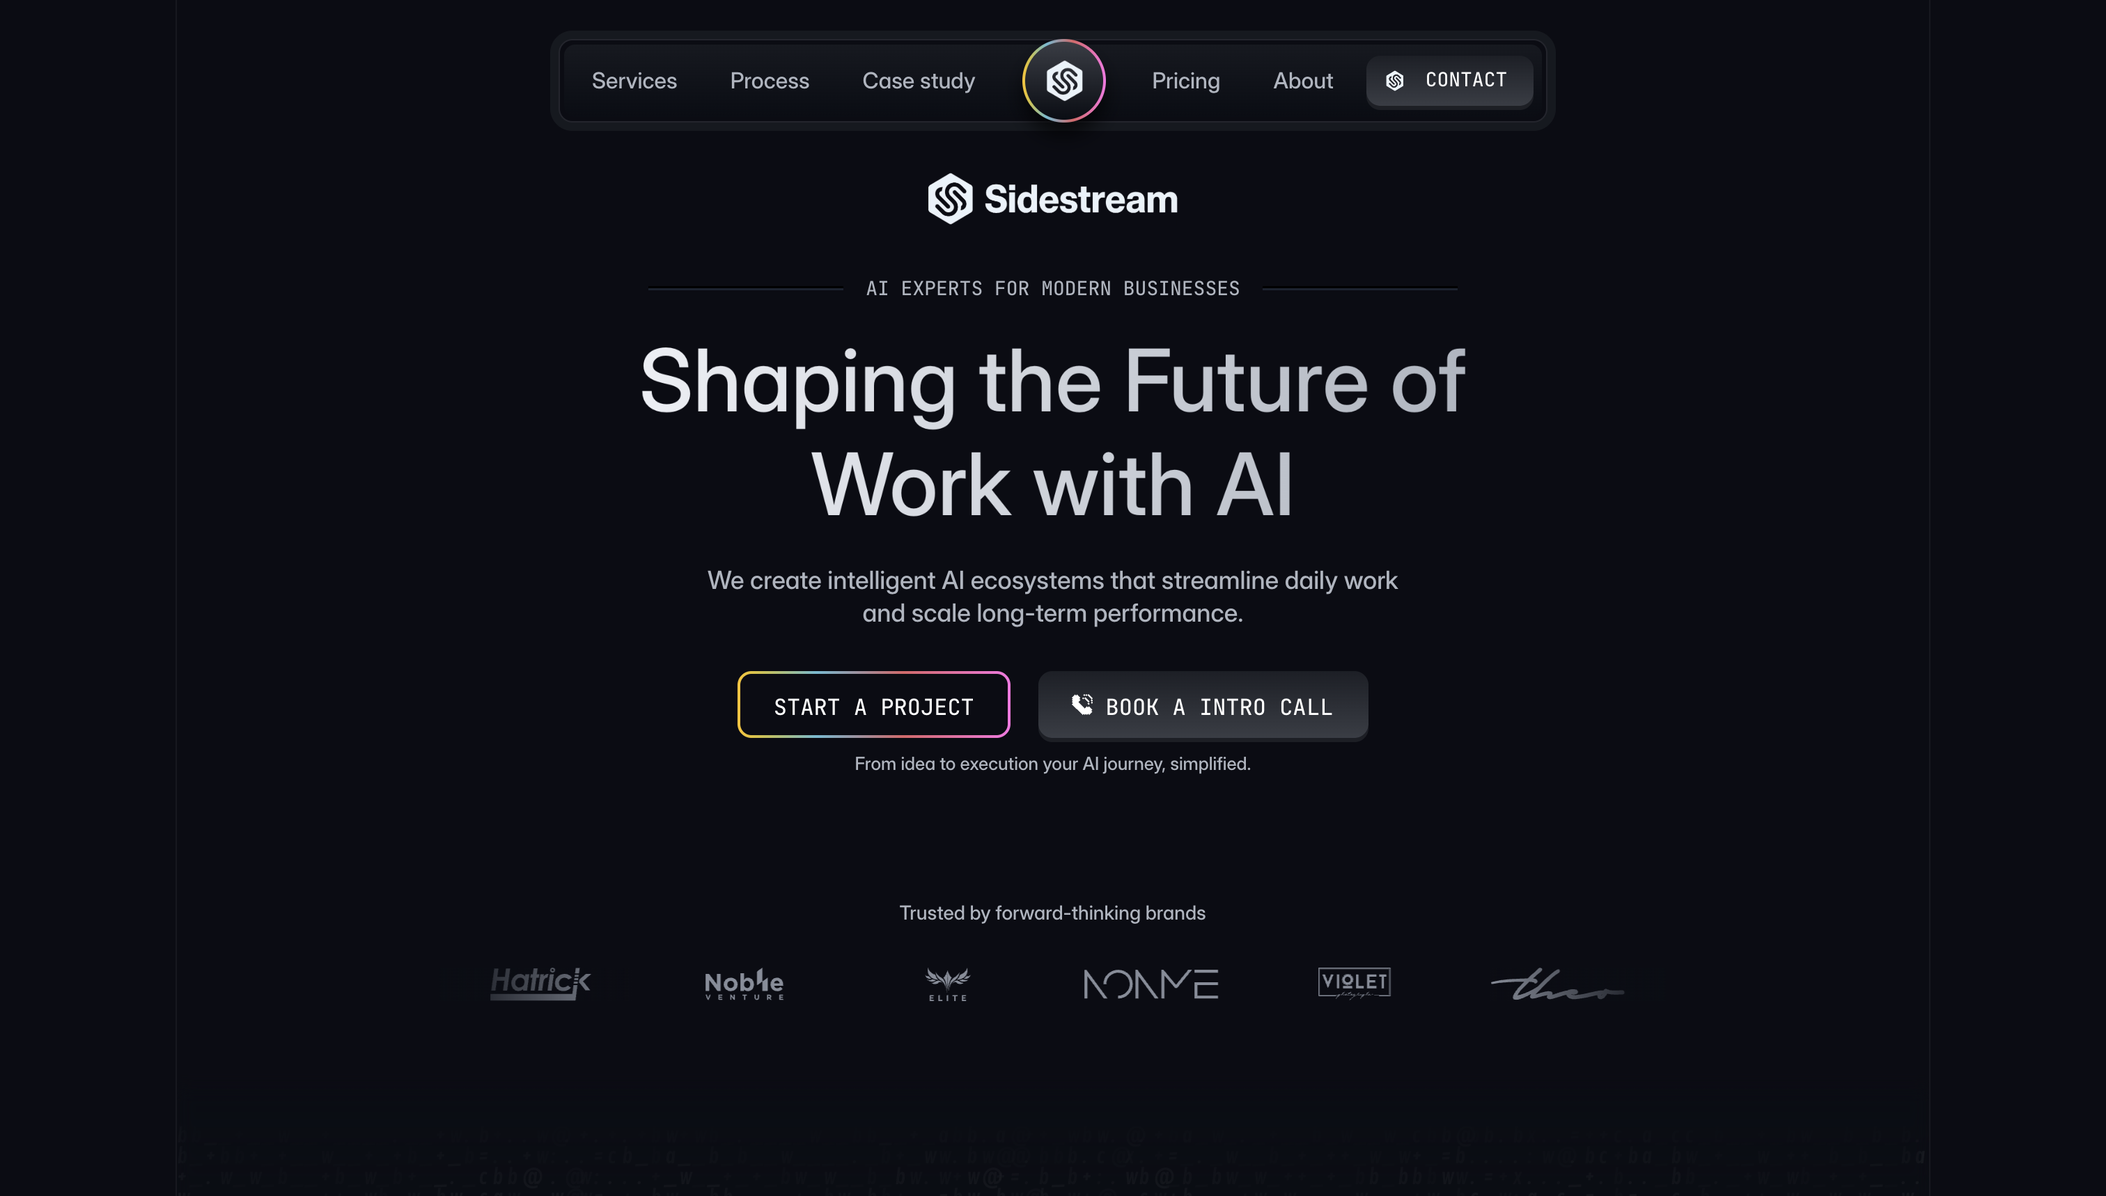
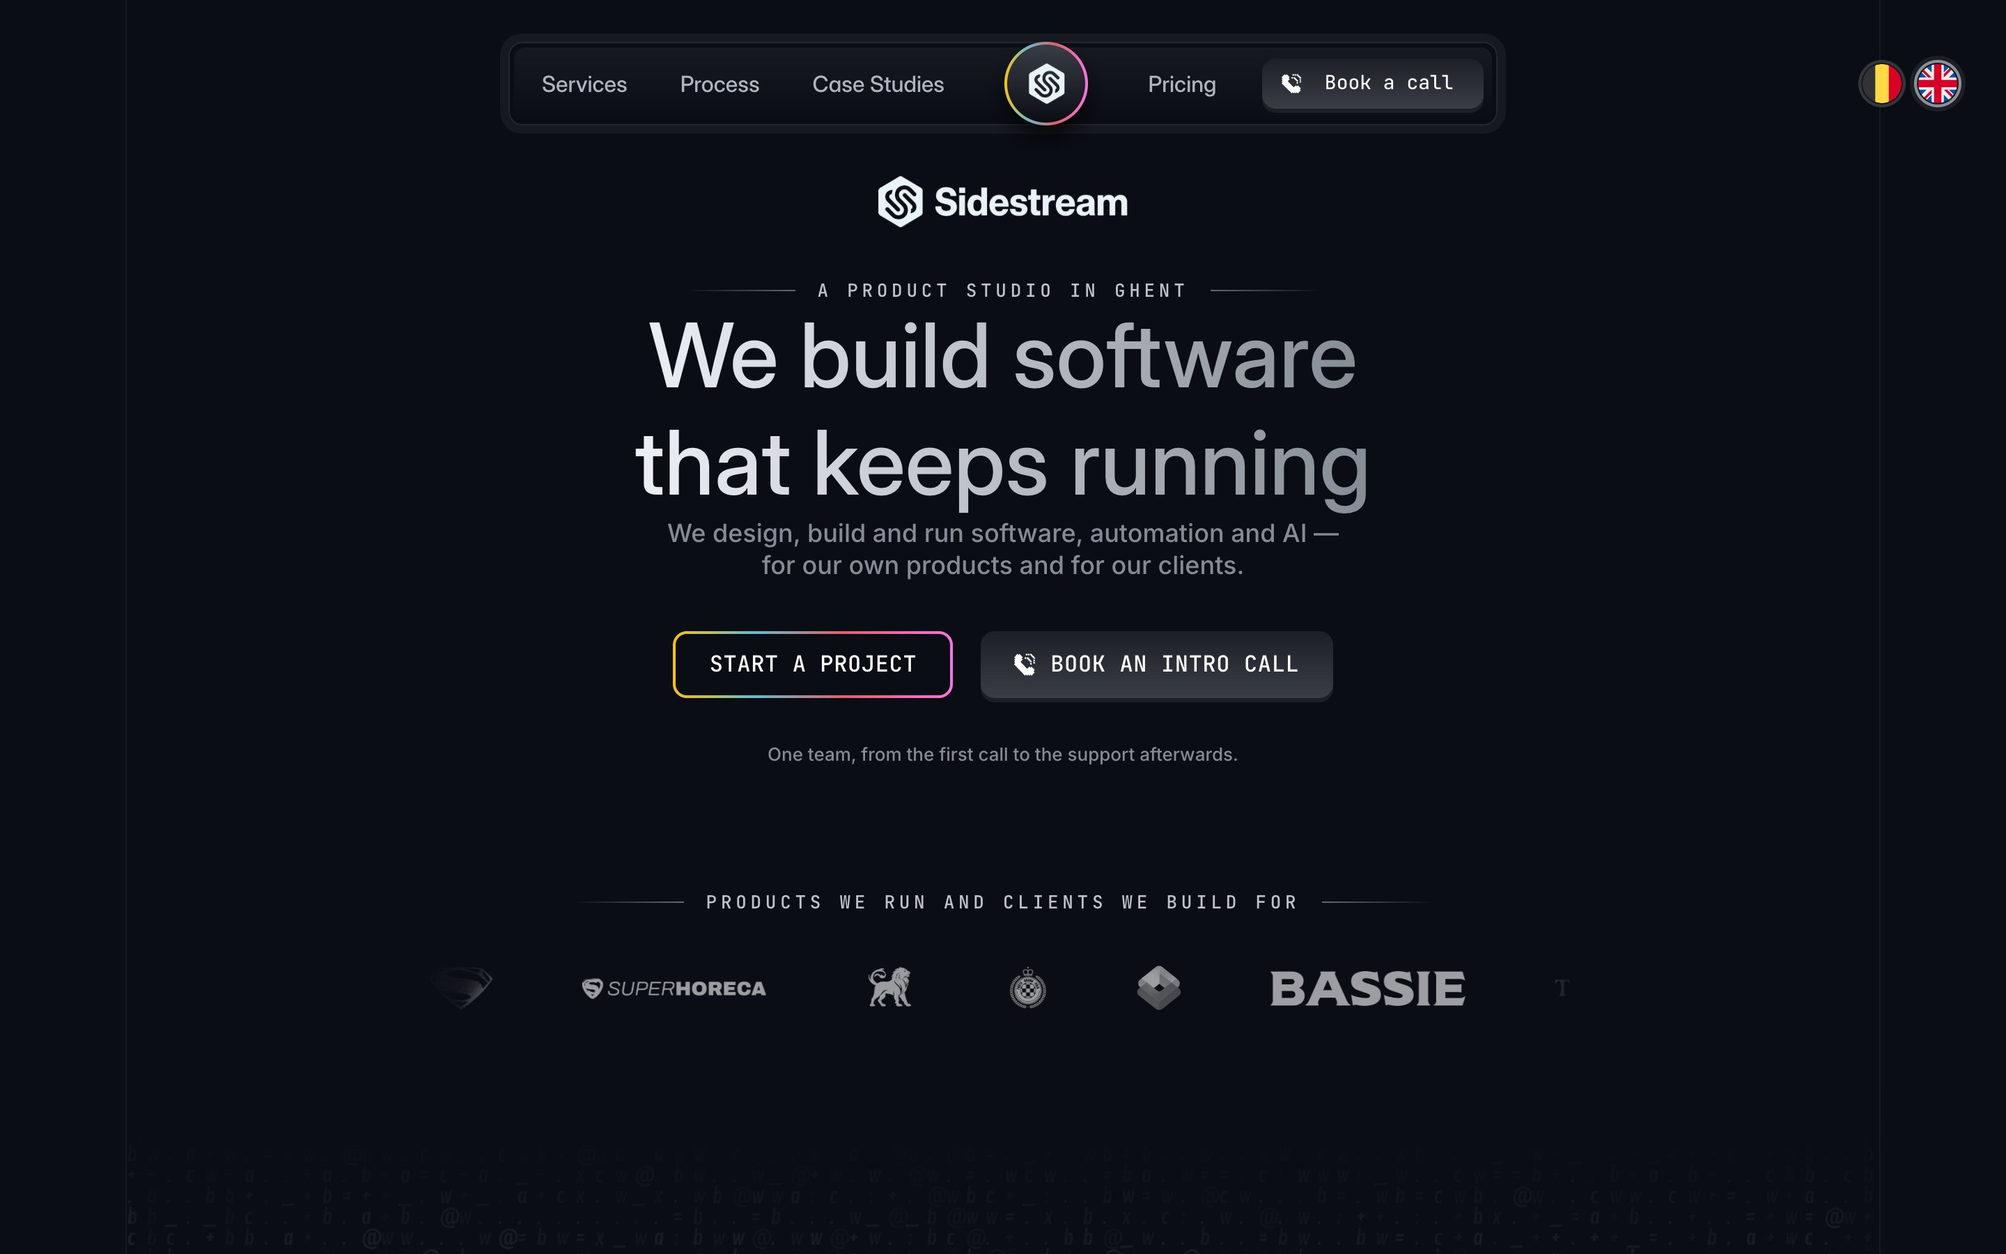
Add Leopol, rename Superstream to OpenMail, refresh studies
- New live product: Leopol (leopol.ai) with store links
- Superstream is now OpenMail, linking to openmails.dev
- Fresh screenshots for Trapspotter, Ticketbalie, Sidestream, OpenMail,
  Leopol; screenshot script now hides cookie banners
- Mobile: "Visit {name}" with store badges on their own row
- Selected studies: Nurban Space, Compact Solutions, House of Talents,
  Wintercircus, FC Touzani and an NDA client

diff --git a/src/data/projects.ts b/src/data/projects.ts
@@ -12,6 +12,7 @@ export type Project = {
   accent?: string
   appStore?: string
   playStore?: string
+  nda?: boolean
 }
 
 export const liveProjects: Project[] = [
@@ -20,7 +21,7 @@ export const liveProjects: Project[] = [
     name: 'Trapspotter',
     tagline: 'Your smart copilot for a safe & carefree drive',
     description:
-      'Community-powered driving app — avoid traffic, prevent unexpected fines, and drive safer with real-time alerts. 40K+ active users, 2M+ alerts shared. iOS / Android / web.',
+      'Community-powered driving app — avoid traffic, prevent unexpected fines, and drive safer with real-time alerts across Belgium, the Netherlands, France, Germany and Luxembourg. 40K+ active users, 4.2M+ alerts processed. iOS / Android / web.',
     year: '2025',
     role: 'Chief Engineer',
     stack: ['React', 'Capacitor', 'Supabase', 'MapLibre', 'RevenueCat'],
@@ -32,11 +33,28 @@ export const liveProjects: Project[] = [
     playStore: 'https://play.google.com/store/apps/details?id=com.trapspotter.app',
   },
   {
+    slug: 'leopol',
+    name: 'Leopol',
+    tagline: 'Know what’s coming, long before you get there',
+    description:
+      'The new Trapspotter — calm, timely warnings for speed cameras, average-speed zones, mobile checks and road hazards in five countries. Free to use, Pro at €4.95/month. Site in NL / FR / EN.',
+    year: '2026',
+    role: 'Chief Engineer',
+    stack: ['Next.js 16', 'React 19', 'Tailwind 4', 'Capacitor', 'Supabase'],
+    url: 'https://leopol.ai',
+    image: '/assets/screenshots/leopol.jpg',
+    favicon: '/assets/favicons/leopol.png',
+    accent: '#0a0a0a',
+    appStore: 'https://apps.apple.com/app/apple-store/id6763530472?pt=128824147&ct=leopol&mt=8',
+    playStore:
+      'https://play.google.com/store/apps/details?id=com.trapspotter.app&referrer=utm_source%3Dleopol.ai%26utm_medium%3Dwebsite',
+  },
+  {
     slug: 'ticketbalie',
     name: 'Ticketbalie',
     tagline: 'Sell tickets. Without the hassle.',
     description:
-      'Event management made simple — sell tickets, scan entry, and manage events end-to-end. Stripe Connect payouts, QR scanning, multi-language (EN/NL), guest management.',
+      'Ticketing platform for organisers in Belgium and the Netherlands — set up an event in minutes, get paid directly and scan at the door. Organiser dashboard with design editor, email campaigns, inbox, finances and webshop.',
     year: '2025',
     role: 'Co-founder · Chief Engineer',
     stack: ['React', 'Vite', 'Supabase', 'Stripe Connect', 'Mapbox'],
@@ -46,17 +64,17 @@ export const liveProjects: Project[] = [
     accent: '#10b981',
   },
   {
-    slug: 'superstream',
-    name: 'Superstream',
-    tagline: 'A modern, Gmail-like mailbox system',
+    slug: 'openmail',
+    name: 'OpenMail',
+    tagline: 'Your mail. Your servers. Your rules.',
     description:
-      'Gmail-inspired email client with real-time updates, rich-text composition (Tiptap), threading, attachments and video/PDF generation via Remotion.',
+      'Open-source (MIT) email you host yourself — a real inbox and newsletter sender on your own Supabase and Resend. Threading, folders, search, attachments, audiences, campaigns and an optional AI compose helper.',
     year: '2025',
     role: 'Co-founder · Chief Engineer',
-    stack: ['React 19', 'Supabase', 'Tiptap', 'Resend', 'Remotion'],
-    url: 'https://superstream.co',
-    image: '/assets/screenshots/superstream.jpg',
-    favicon: '/assets/favicons/superstream.png',
+    stack: ['React 19', 'Supabase', 'Resend', 'Tiptap'],
+    url: 'https://openmails.dev',
+    image: '/assets/screenshots/openmail.jpg',
+    favicon: '/assets/favicons/openmail-circle.svg',
     accent: '#8b5cf6',
   },
   {
@@ -90,9 +108,9 @@ export const liveProjects: Project[] = [
   {
     slug: 'sidestream',
     name: 'Sidestream',
-    tagline: 'Studio for side-quests & weekend builds',
+    tagline: 'A product studio in Ghent — software that keeps running',
     description:
-      'The umbrella brand for experiments, prototypes and tools shipped in public — where most of these live products started.',
+      'We design, build and run software, automation and AI — for our own products and for our clients. One team, from the first call to the support afterwards.',
     year: '2025',
     role: 'Co-founder · Chief Engineer',
     stack: ['Various'],
@@ -104,17 +122,30 @@ export const liveProjects: Project[] = [
 ]
 
 export const caseStudies: Project[] = [
-  // {
-  //   slug: 'prado',
-  //   name: 'Prado',
-  //   tagline: 'Manage influencer collaborations from proposal to performance',
-  //   description:
-  //     'Full-stack dashboard for the entire influencer campaign workflow — discovery, briefs, contracts, and performance analytics — in one interface.',
-  //   year: '2026',
-  //   role: 'Chief Engineer',
-  //   stack: ['React 19', 'Vite', 'Supabase', 'TanStack Query', 'Tiptap'],
-  //   accent: '#f97316',
-  // },
+  {
+    slug: 'nurbanspace',
+    name: 'Nurban Space',
+    tagline: 'Space-saving, modular furniture',
+    description:
+      'Ground-up rebuild of the Webflow site on a new design system — 95 statically prerendered routes, a filterable catalogue and 46 product pages, plus an interactive 3D configurator for materials, colours and dimensions.',
+    year: '2026',
+    role: 'Chief Engineer',
+    stack: ['Next.js 16', 'Tailwind 4', 'Three.js'],
+    url: 'https://nurbanspace.com',
+    accent: '#06b6d4',
+  },
+  {
+    slug: 'compactsolutions',
+    name: 'Compact Solutions',
+    tagline: 'The future of space saving',
+    description:
+      'Site and dealer portal for a Belgian manufacturer of wall beds, space-saving furniture and kitchens — dealer sign-up with approval flow, orders and a gated downloads library.',
+    year: '2026',
+    role: 'Chief Engineer',
+    stack: ['Next.js 16', 'Supabase', 'R3F'],
+    url: 'https://compactsolutions.be',
+    accent: '#10b981',
+  },
   {
     slug: 'houseoftalents',
     name: 'House of Talents',
@@ -124,79 +155,44 @@ export const caseStudies: Project[] = [
     year: '2025',
     role: 'Chief Engineer',
     stack: ['React 18', 'Vite', 'Supabase', 'Three.js', 'Radix UI'],
+    url: 'https://houseoftalents.be',
     accent: '#a855f7',
   },
   {
-    slug: 'lodicy',
-    name: 'Lodicy',
-    tagline: 'Direct-booking microsites for independent hosts',
-    description: 'Direct-booking microsite system for independent lodging operators.',
-    year: '2025',
-    role: 'Chief Engineer',
-    stack: ['Next.js', 'Stripe', 'Postgres'],
-    accent: '#10b981',
-  },
-  {
-    slug: 'nurbanspace',
-    name: 'NURBAN Configurator',
-    tagline: 'Interactive 3D builder for urban furniture',
+    slug: 'wintercircus',
+    name: 'Wintercircus',
+    tagline: 'Innovation, events, food & community · Ghent',
     description:
-      'Real-time 3D configurator — customise materials, colours and dimensions of urban furniture pieces with instant previews. Lets customers prototype before ordering.',
-    year: '2026',
-    role: 'Chief Engineer',
-    stack: ['React 19', 'Vite', 'Three.js', 'R3F', 'Zustand'],
-    accent: '#06b6d4',
-  },
-  {
-    slug: 'zoutegrandprix',
-    name: 'Zoute Grand Prix',
-    tagline: 'A classic-car event, on the web',
-    description: 'Race weekend platform — schedule, drivers, live coverage and ticketing.',
-    year: '2025',
-    role: 'Chief Engineer',
-    stack: ['Next.js', 'Sanity'],
-    accent: '#eab308',
-  },
-  {
-    slug: 'aslgroup',
-    name: 'ASL Group',
-    tagline: 'Aviation services group',
-    description: 'Corporate site rebuild and operations microsites across business units.',
-    year: '2025',
-    role: 'Chief Engineer',
-    stack: ['Next.js', 'Headless CMS'],
-    accent: '#3b82f6',
-  },
-  {
-    slug: 'flesjesfabriek',
-    name: 'Flesjesfabriek',
-    tagline: 'Small-batch beverages, big-batch tooling',
-    description: 'D2C storefront, custom-label flow and fulfilment back-office.',
-    year: '2026',
-    role: 'Chief Engineer',
-    stack: ['Shopify Hydrogen', 'Remix'],
-    accent: '#f43f5e',
-  },
-  {
-    slug: 'keizerfest',
-    name: 'Keizerfest 2026',
-    tagline: 'Free three-day city festival · Keizerpark Gent',
-    description:
-      'Multilingual (NL/EN/FR) event site with live crowdfunding progress, four sub-festival schedules, partner showcase and embedded Ticketbalie checkout.',
-    year: '2026',
-    role: 'Chief Engineer',
-    stack: ['HTML', 'Tailwind', 'Ticketbalie', 'Iconify'],
-    accent: '#fb923c',
-  },
-  {
-    slug: 'bar-bassie',
-    name: 'Bar Bassie & Tribune',
-    tagline: 'Wintercircus, Ghent — bar & tribune brand',
-    description:
-      'Identity & site for Bar Bassie and Tribune, the bar/restaurant inside the Wintercircus venue in Ghent.',
+      'Work for the iconic Ghent venue — including identity and site for Bar Bassie and Tribune, the bar and restaurant inside the Wintercircus.',
     year: '2026',
     role: 'Chief Engineer',
     stack: ['Next.js', 'Sanity'],
+    url: 'https://wintercircus.be',
     accent: '#dc2626',
+  },
+  {
+    slug: 'touzani',
+    name: 'FC Touzani',
+    tagline: 'One upload, every channel',
+    description:
+      'Publishing studio for Soufiane Touzani’s YouTube network — upload a video once, fan it out to every connected channel and track each upload from queued to live, with one-click retry.',
+    year: '2026',
+    role: 'Chief Engineer',
+    stack: ['React Router 7', 'Supabase', 'Tailwind 4'],
+    url: 'https://touzanifc.com',
+    accent: '#0d9488',
+  },
+  {
+    // client name withheld under NDA — keep it out of this file
+    slug: 'nda-influencer',
+    name: 'Confidential client',
+    tagline: 'Influencer collaborations, from proposal to performance',
+    description:
+      'Workspace for the full creator-partnership lifecycle — proposal, negotiation, contract & e-signature, payment, content and performance — paired with paid-media analytics and AI-assisted email.',
+    year: '2026',
+    role: 'Chief Engineer',
+    stack: ['React 19', 'Supabase', 'TanStack Query'],
+    nda: true,
+    accent: '#f97316',
   },
 ]

diff --git a/src/components/ProjectCard.tsx b/src/components/ProjectCard.tsx
@@ -38,8 +38,9 @@ function GooglePlayLogo({ size = 16 }: { size?: number }) {
 
 const cornerColor: Record<string, string> = {
   trapspotter: '#ef4444', // red
+  leopol: '#737373', // neutral gray (black & white brand)
   ticketbalie: '#3b82f6', // blue
-  superstream: '#475569', // dark gray
+  openmail: '#475569', // dark gray
   investeren: '#22c55e', // green
   dazzap: '#a855f7', // purple
 }
@@ -136,7 +137,8 @@ export default function ProjectCard({ project }: { project: Project }) {
             ))}
           </div>
 
-          <div className="flex items-stretch gap-2 flex-nowrap">
+          {/* Mobile: full "Visit {name}" with store badges on their own row below */}
+          <div className="flex flex-col items-start gap-2 sm:flex-row sm:items-stretch">
             {project.url && (
               hasStore ? (
                 <a
@@ -145,7 +147,8 @@ export default function ProjectCard({ project }: { project: Project }) {
                   rel="noreferrer"
                   className="ts-btn-secondary shrink-0 py-2! px-3.5! text-[12.5px]!"
                 >
-                  Visit
+                  <span className="sm:hidden">Visit {project.name}</span>
+                  <span className="hidden sm:inline">Visit</span>
                   <HugeiconsIcon icon={ArrowUpRight01Icon} size={13} strokeWidth={2} />
                 </a>
               ) : (
@@ -160,37 +163,41 @@ export default function ProjectCard({ project }: { project: Project }) {
                 </a>
               )
             )}
-            {project.appStore && (
-              <a
-                href={project.appStore}
-                target="_blank"
-                rel="noreferrer"
-                aria-label="Download on the App Store"
-                className="shrink-0 inline-flex items-center gap-2 rounded-xl bg-[#0a0a0a] border border-white/10 px-3 py-2 text-white transition hover:bg-[#1a1a1a]"
-                style={{ boxShadow: 'inset 0 1px 0 rgba(255,255,255,0.10), 0 1px 2px rgba(10,13,18,0.12)' }}
-              >
-                <SiApple size={16} aria-hidden />
-                <span className="flex flex-col leading-none text-left">
-                  <span className="text-[8px] uppercase tracking-[0.12em] text-white/70">Download on</span>
-                  <span className="text-[12px] font-semibold mt-0.5">App Store</span>
-                </span>
-              </a>
-            )}
-            {project.playStore && (
-              <a
-                href={project.playStore}
-                target="_blank"
-                rel="noreferrer"
-                aria-label="Get it on Google Play"
-                className="shrink-0 inline-flex items-center gap-2 rounded-xl bg-[#0a0a0a] border border-white/10 px-3 py-2 text-white transition hover:bg-[#1a1a1a]"
-                style={{ boxShadow: 'inset 0 1px 0 rgba(255,255,255,0.10), 0 1px 2px rgba(10,13,18,0.12)' }}
-              >
-                <GooglePlayLogo size={16} />
-                <span className="flex flex-col leading-none text-left">
-                  <span className="text-[8px] uppercase tracking-[0.12em] text-white/70">Get it on</span>
-                  <span className="text-[12px] font-semibold mt-0.5">Google Play</span>
-                </span>
-              </a>
+            {hasStore && (
+              <div className="flex items-stretch gap-2 flex-nowrap">
+                {project.appStore && (
+                  <a
+                    href={project.appStore}
+                    target="_blank"
+                    rel="noreferrer"
+                    aria-label="Download on the App Store"
+                    className="shrink-0 inline-flex items-center gap-2 rounded-xl bg-[#0a0a0a] border border-white/10 px-3 py-2 text-white transition hover:bg-[#1a1a1a]"
+                    style={{ boxShadow: 'inset 0 1px 0 rgba(255,255,255,0.10), 0 1px 2px rgba(10,13,18,0.12)' }}
+                  >
+                    <SiApple size={16} aria-hidden />
+                    <span className="flex flex-col leading-none text-left">
+                      <span className="text-[8px] uppercase tracking-[0.12em] text-white/70">Download on</span>
+                      <span className="text-[12px] font-semibold mt-0.5">App Store</span>
+                    </span>
+                  </a>
+                )}
+                {project.playStore && (
+                  <a
+                    href={project.playStore}
+                    target="_blank"
+                    rel="noreferrer"
+                    aria-label="Get it on Google Play"
+                    className="shrink-0 inline-flex items-center gap-2 rounded-xl bg-[#0a0a0a] border border-white/10 px-3 py-2 text-white transition hover:bg-[#1a1a1a]"
+                    style={{ boxShadow: 'inset 0 1px 0 rgba(255,255,255,0.10), 0 1px 2px rgba(10,13,18,0.12)' }}
+                  >
+                    <GooglePlayLogo size={16} />
+                    <span className="flex flex-col leading-none text-left">
+                      <span className="text-[8px] uppercase tracking-[0.12em] text-white/70">Get it on</span>
+                      <span className="text-[12px] font-semibold mt-0.5">Google Play</span>
+                    </span>
+                  </a>
+                )}
+              </div>
             )}
           </div>
         </div>

diff --git a/src/components/StudyCard.tsx b/src/components/StudyCard.tsx
@@ -1,3 +1,5 @@
+import { HugeiconsIcon } from '@hugeicons/react'
+import { ArrowUpRight01Icon } from '@hugeicons/core-free-icons'
 import type { Project } from '@/data/projects'
 
 export default function StudyCard({ project }: { project: Project }) {
@@ -5,7 +7,26 @@ export default function StudyCard({ project }: { project: Project }) {
     <div className="ts-card p-2 h-full">
       <div className="ts-card-inner p-5 md:p-6 h-full flex flex-col">
         <div className="flex items-start justify-between gap-3 mb-3">
-          <h4 className="font-display text-[1.25rem] font-bold leading-tight">{project.name}</h4>
+          <h4 className="font-display text-[1.25rem] font-bold leading-tight flex items-center gap-2 flex-wrap">
+            {project.url ? (
+              <a
+                href={project.url}
+                target="_blank"
+                rel="noreferrer"
+                className="inline-flex items-center gap-1 hover:text-ink-2 transition-colors"
+              >
+                {project.name}
+                <HugeiconsIcon icon={ArrowUpRight01Icon} size={14} strokeWidth={2} className="text-ink-3" />
+              </a>
+            ) : (
+              project.name
+            )}
+            {project.nda && (
+              <span className="font-mono text-[10px] font-normal uppercase tracking-[0.1em] text-ink-3 px-1.5 py-0.5 rounded border border-rail bg-card">
+                NDA
+              </span>
+            )}
+          </h4>
           <span className="font-display font-bold tabular-nums text-[13px] text-ink-2 mt-1 shrink-0">{project.year}</span>
         </div>
 

diff --git a/index.html b/index.html
@@ -5,7 +5,7 @@
     <link rel="icon" type="image/svg+xml" href="/favicon.svg" />
     <meta name="viewport" content="width=device-width, initial-scale=1.0" />
     <title>Achile Batier — Founder & Chief Engineer · Ghent</title>
-    <meta name="description" content="Founder & Chief Engineer in Ghent. I ship web products end to end — Trapspotter, Ticketbalie, Superstream, Investeren, Dazzap, Sidestream." />
+    <meta name="description" content="Founder & Chief Engineer in Ghent. I ship web products end to end — Trapspotter, Leopol, Ticketbalie, OpenMail, Investeren, Dazzap, Sidestream." />
     <meta property="og:title" content="Achile Batier — Founder & Chief Engineer" />
     <meta property="og:description" content="I ship web products end to end — across ticketing, streaming, fintech and mobile. Based in Ghent, Belgium." />
     <meta property="og:type" content="website" />

diff --git a/src/App.tsx b/src/App.tsx
@@ -35,7 +35,7 @@ function App() {
           <div className="relative">
             <SectionHeader
               title="Selected studies."
-              description="Client work and collaborations across hospitality, culture, talent, fintech and aviation."
+              description="Client work and collaborations across interiors, culture, talent, creators and marketing."
             />
             <div className="mx-auto max-w-6xl px-5 md:px-8">
               <div className="grid md:grid-cols-2 lg:grid-cols-3 gap-4">
